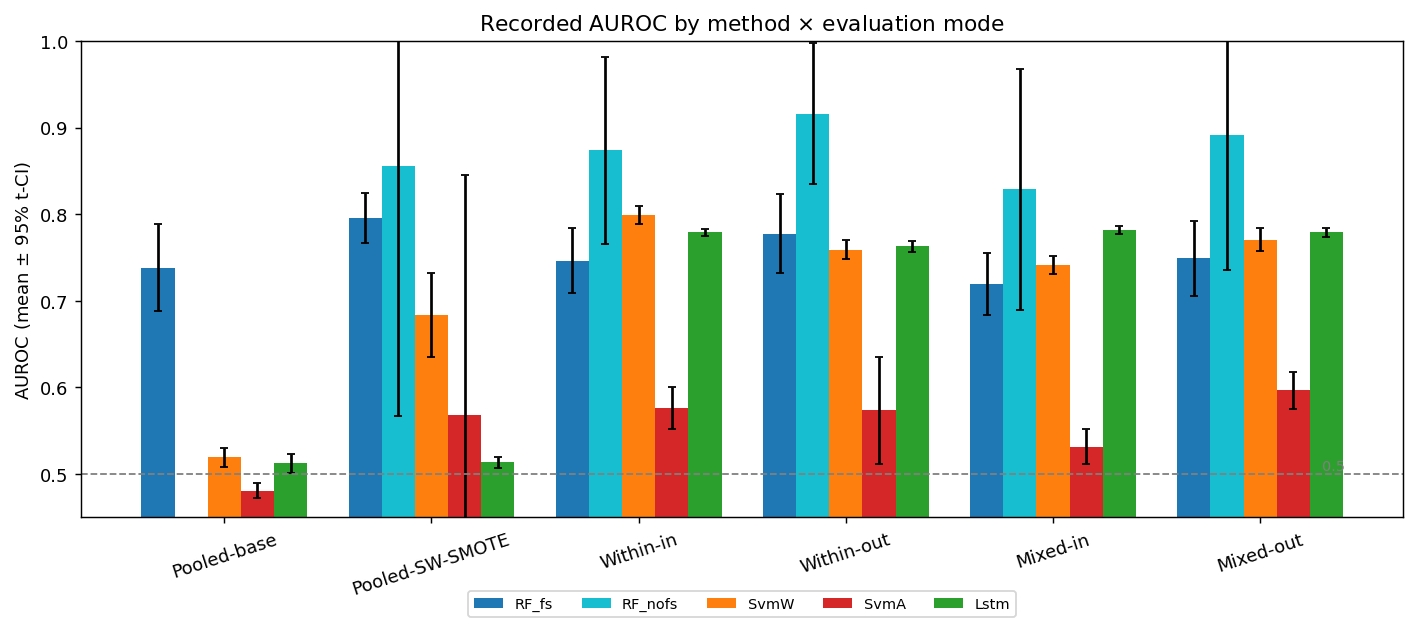
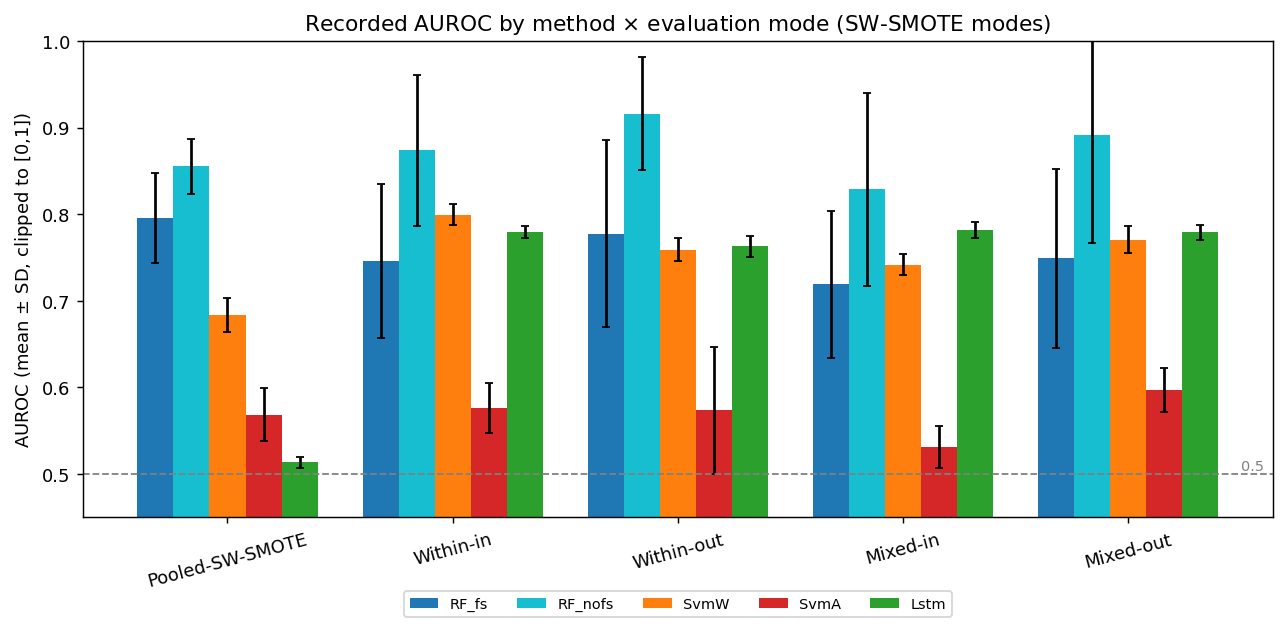
docs(exp3): fig1 — drop Pooled-base; error bars = mean +/- SD clipped to [0,1]
The method x mode figure now omits Pooled-base and uses the same SD as the table's '+/-'
column (previously it drew 95% t-CIs, which are wider than the SD and can overshoot 1.0
for a bounded metric at small n, e.g. RF-nofs Mixed-out). Bars are clipped to [0,1].

diff --git a/scripts/python/analysis/exp3_c1_recorded_value_analysis.py b/scripts/python/analysis/exp3_c1_recorded_value_analysis.py
@@ -209,19 +209,24 @@ if common and len(recs) == len(METHODS) * len(core) * len(common):
 import matplotlib; matplotlib.use("Agg"); import matplotlib.pyplot as plt
 os.makedirs(FIGDIR, exist_ok=True)
 
-# Fig 1: AUROC by method x mode
-fig, ax = plt.subplots(figsize=(11, 5)); x = np.arange(len(MODES)); w = 0.16
+# Fig 1: AUROC by method x mode. Pooled-base dropped (all remaining modes are SW-SMOTE-treated).
+# Error bars = mean +/- SD (matching the table's +/- column), clipped to [0,1] since AUROC is
+# bounded (a symmetric bar can otherwise overshoot 1 for small-n, near-ceiling cells).
+MODES_F1 = [md for md in MODES if md != "pooled_base"]
+fig, ax = plt.subplots(figsize=(10, 5)); x = np.arange(len(MODES_F1)); w = 0.16
 for i, method in enumerate(METHODS):
     m = []; lo = []; hi = []
-    for mode in MODES:
+    for mode in MODES_F1:
         r = A[method][mode]
-        if r: m.append(r["mean"]); lo.append(r["mean"] - r["t_ci"][0]); hi.append(r["t_ci"][1] - r["mean"])
+        if r:
+            mu, sd = r["mean"], r["sd"]
+            m.append(mu); lo.append(min(sd, mu)); hi.append(min(sd, 1.0 - mu))
         else: m.append(np.nan); lo.append(0); hi.append(0)
     ax.bar(x + (i - 2) * w, m, w, yerr=[lo, hi], capsize=2, label=method, color=COL[method])
-ax.axhline(0.5, ls="--", c="gray", lw=1); ax.text(len(MODES) - 0.7, 0.505, "0.5", color="gray", fontsize=8)
-ax.set_xticks(x); ax.set_xticklabels([MODE_LABEL[md] for md in MODES], rotation=18)
-ax.set_ylabel("AUROC (mean $\\pm$ 95% t-CI)"); ax.set_ylim(0.45, 1.0)
-ax.set_title("Recorded AUROC by method $\\times$ evaluation mode")
+ax.axhline(0.5, ls="--", c="gray", lw=1); ax.text(len(MODES_F1) - 0.5, 0.505, "0.5", color="gray", fontsize=8)
+ax.set_xticks(x); ax.set_xticklabels([MODE_LABEL[md] for md in MODES_F1], rotation=15)
+ax.set_ylabel("AUROC (mean $\\pm$ SD, clipped to [0,1])"); ax.set_ylim(0.45, 1.0)
+ax.set_title("Recorded AUROC by method $\\times$ evaluation mode (SW-SMOTE modes)")
 ax.legend(ncol=5, fontsize=8, loc="upper center", bbox_to_anchor=(0.5, -0.14))
 fig.tight_layout(); fig.savefig(f"{FIGDIR}/fig1_auroc_method_mode.png", dpi=130, bbox_inches="tight"); plt.close(fig)
 

diff --git a/docs/experiments/results/exp3-analysis/c1_recorded_value_analysis.md b/docs/experiments/results/exp3-analysis/c1_recorded_value_analysis.md
@@ -40,10 +40,12 @@ RF-nofs has no Pooled-base arm by design.
 
 ![Recorded AUROC by method and mode](figures/c1_recorded/fig1_auroc_method_mode.png)
 
-*Figure 1. Recorded AUROC (mean ± 95% t-CI) for each method across the six modes, with the 0.5
-reference line. Under Pooled-base only RF is elevated (SvmW/SvmA/Lstm sit near 0.5); RF-nofs is
-the highest across the domain-restricted modes but with wide CIs (n=5); SvmA is the lowest
-throughout.*
+*Figure 1. Recorded AUROC (mean ± SD, clipped to [0,1]) for each method across the five
+SW-SMOTE evaluation modes (Pooled-base omitted), with the 0.5 reference line. The error bars use
+the same SD as the "±" column of the table above; they are clipped at 1.0 because a symmetric
+bar on a bounded metric can otherwise overshoot for small-n, near-ceiling cells (e.g. RF-nofs
+Mixed-out, n=5, mean 0.891, SD 0.125). RF-nofs is the highest but with the widest dispersion;
+SvmW and Lstm are tightly grouped; SvmA is the lowest throughout.*
 
 ---
 
